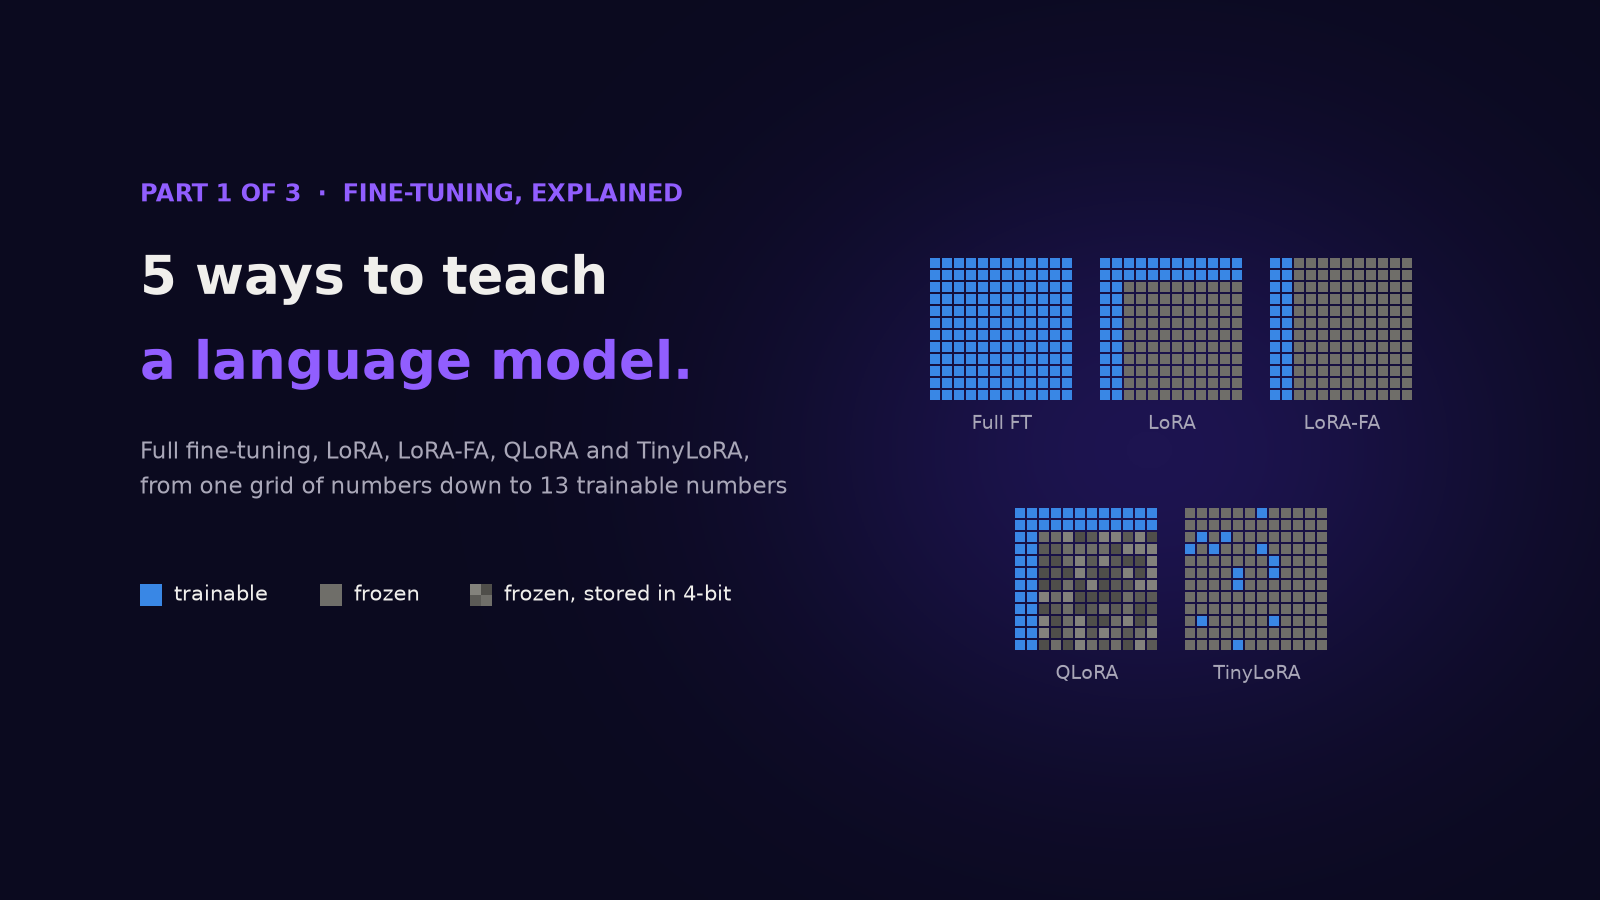
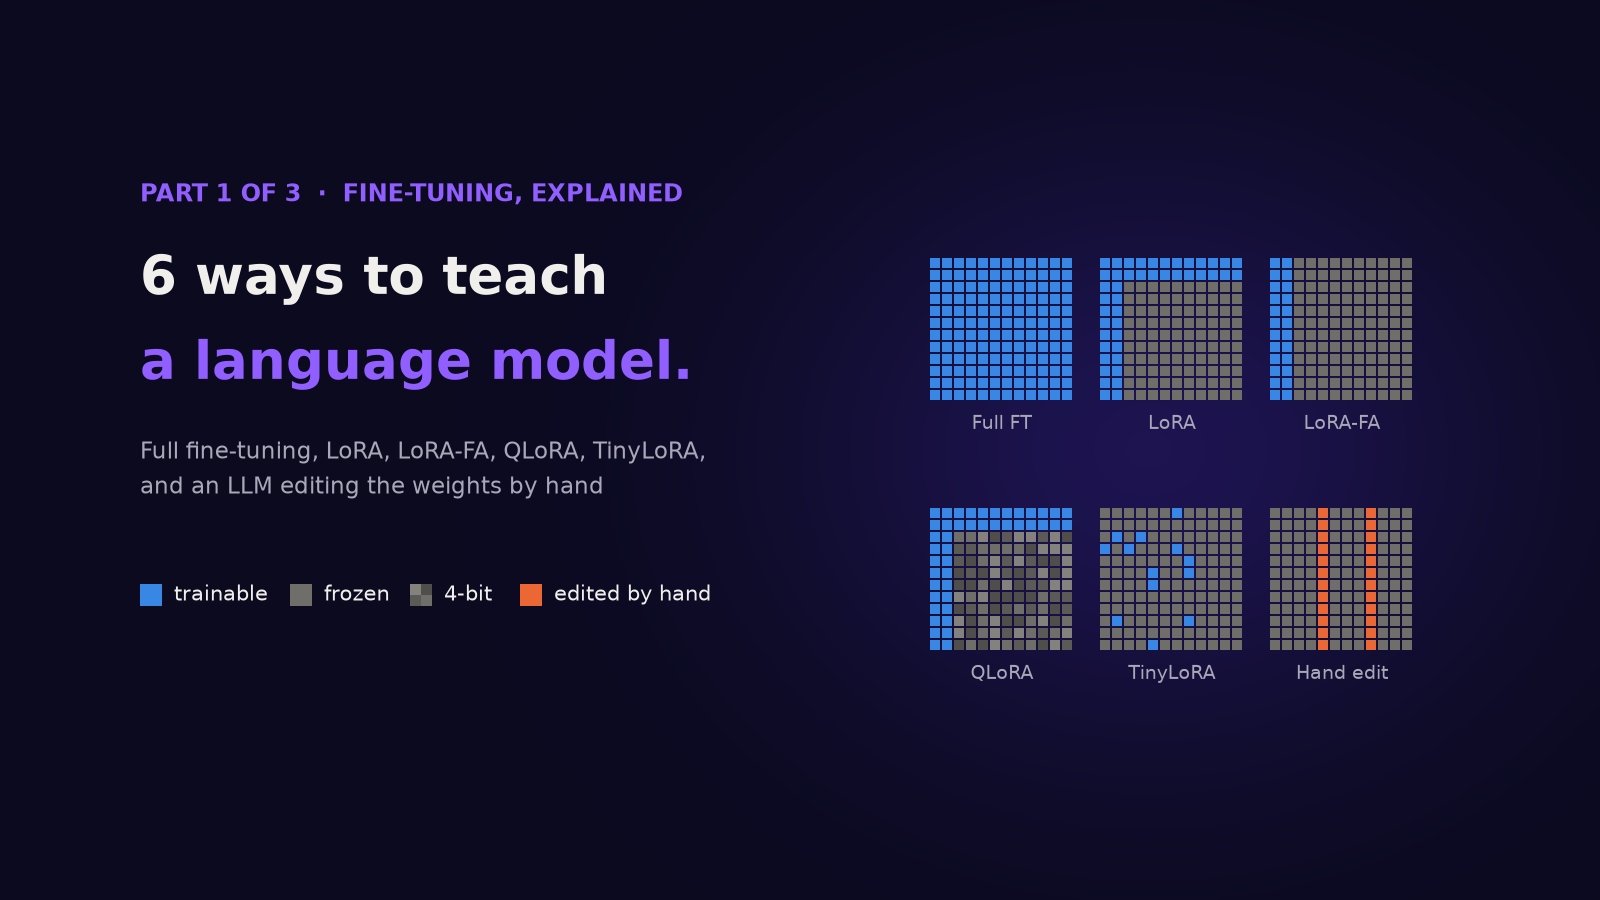
feat(blog): update fine-tuning series title and summary to reflect six methods

diff --git a/frontend/src/constants/posts/finetuning_series_1_methods.js b/frontend/src/constants/posts/finetuning_series_1_methods.js
@@ -1,9 +1,9 @@
 const post = {
   id: "finetuning_series_1_methods",
-  title: "Fine-tuning explained: 5 ways to teach an AI model",
+  title: "Fine-tuning explained: 6 ways to teach an AI model",
   date: "November 07, 2026",
   part: 1,
-  aiSummary: "A beginner-friendly walk through what fine-tuning is (weights as grids of numbers, loss, gradients, and why training needs far more memory than the model itself), followed by full fine-tuning, LoRA, LoRA-FA, QLoRA and TinyLoRA, each with a hand-checkable toy example, a diagram and short Python code. It ends with the two ways to teach a model, SFT and RL, and a worked GRPO example, setting up the experiments in parts 2 and 3.",
+  aiSummary: "A beginner-friendly walk through what fine-tuning is (weights as grids of numbers, loss, gradients, and why training needs far more memory than the model itself), followed by six ways to change a model (full fine-tuning, LoRA, LoRA-FA, QLoRA, TinyLoRA, and an LLM editing the weights by hand), each with a hand-checkable toy example, a diagram and short Python code. It ends with the two ways to teach a model, SFT and RL, and a worked GRPO example, setting up the experiments in parts 2 and 3.",
   image: "blog/text2sql-peft/hero_part1.png",
   tags: ["Fine-tuning", "LoRA", "QLoRA", "TinyLoRA", "GRPO", "Reinforcement Learning", "PEFT", "LLM"],
   type: 'Article',

diff --git a/frontend/src/constants/posts/finetuning_series_3_results.js b/frontend/src/constants/posts/finetuning_series_3_results.js
@@ -584,7 +584,7 @@ save_edit("model.layers.27.mlp.down_proj.weight", W)</code></pre>
 <li>Takehi, Teoh, Zhang and Khattab (MIT CSAIL) 2026, <a href='https://rikiyat.github.io/blog/weight-space-programming/' target='_blank' rel='noopener noreferrer'>Sparks of Weight-Space Programming</a>, the LLM weight-editing experiment</li>
 <li><a href='https://bird-bench.github.io/' target='_blank' rel='noopener noreferrer'>BIRD text-to-SQL benchmark</a></li>
 <li><a href='https://huggingface.co/Qwen/Qwen2.5-Coder-1.5B-Instruct' target='_blank' rel='noopener noreferrer'>Qwen2.5-Coder-1.5B-Instruct</a> on Hugging Face</li>
-<li>Part 1 of this series: <a href='#/blog/finetuning_series_1_methods'>Fine-tuning explained: 5 ways to teach an AI model</a></li>
+<li>Part 1 of this series: <a href='#/blog/finetuning_series_1_methods'>Fine-tuning explained: 6 ways to teach an AI model</a></li>
 <li>Part 2 of this series: <a href='#/blog/finetuning_series_2_how'>How I tested them: teaching AI to write SQL</a></li>
 </ul>
 <p><strong>Previous:</strong> <a href='#/blog/finetuning_series_2_how'>Part 2: How I tested them</a>. Or start from the beginning with <a href='#/blog/finetuning_series_1_methods'>Part 1: Fine-tuning explained</a>.</p>
